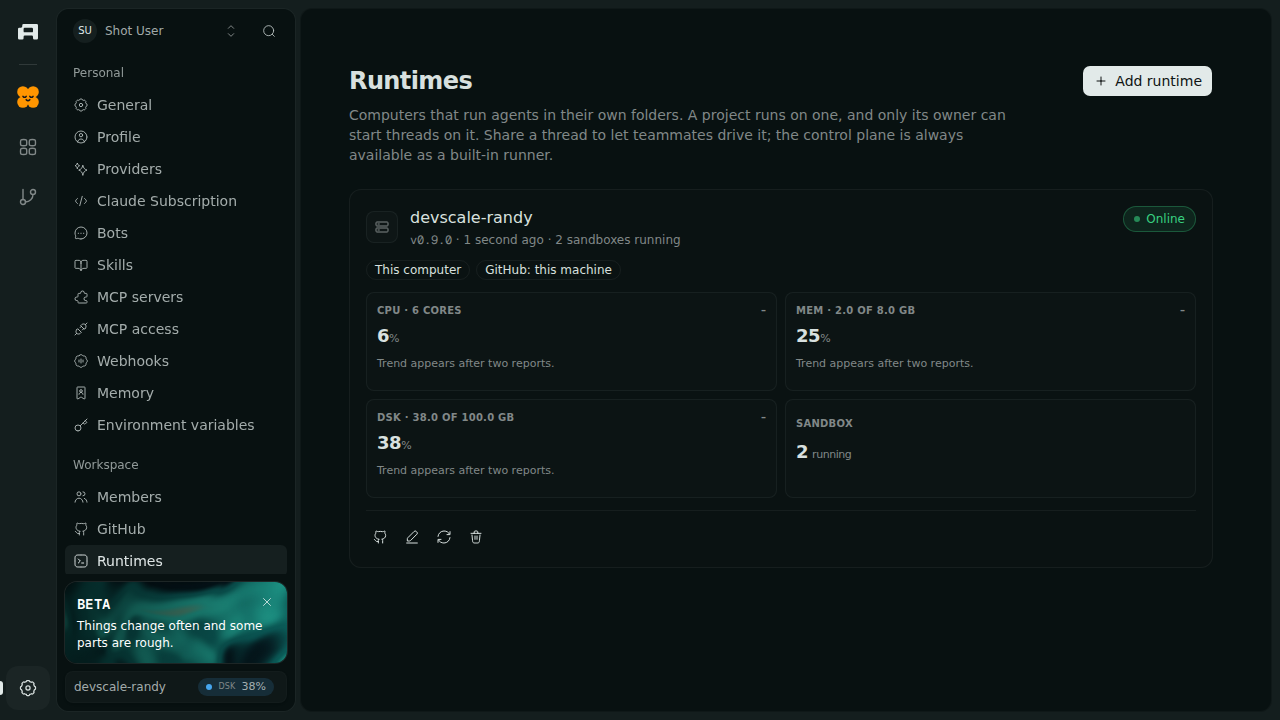
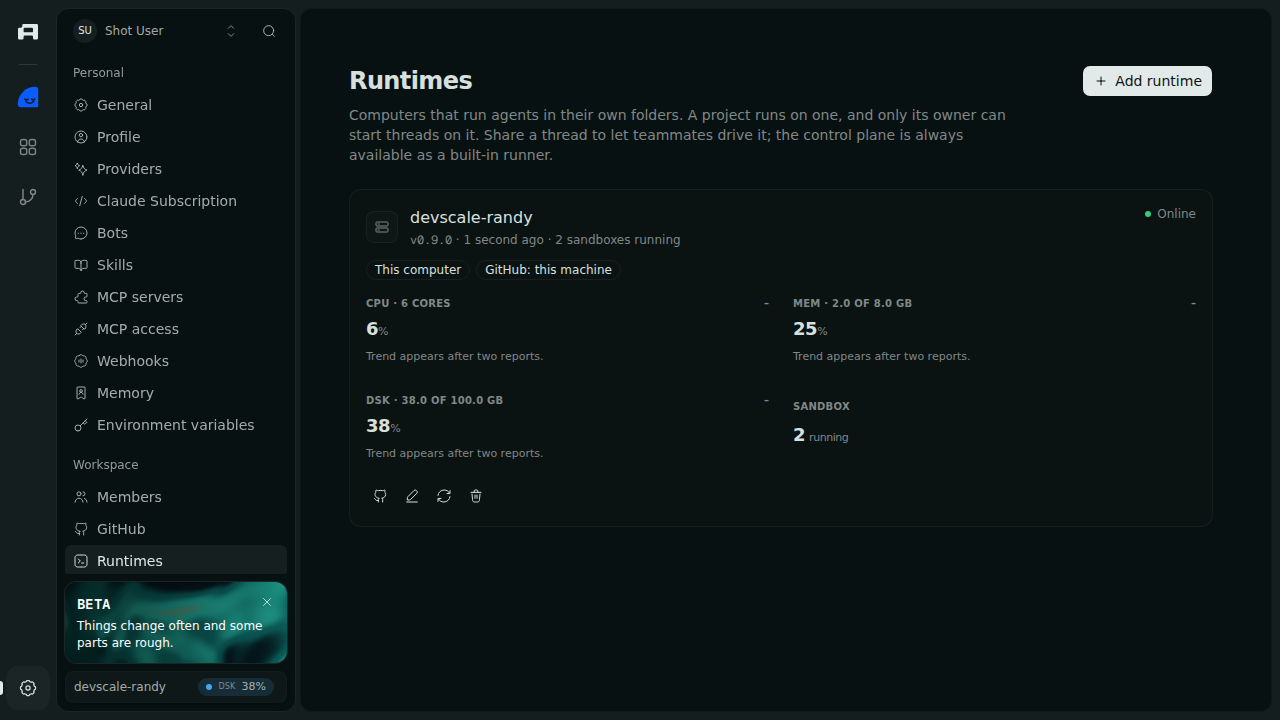
Flatten runtime cards: no inner tiles, no footer line, plain status

diff --git a/apps/platform/src/modules/runtimes/components/runtimes-list.tsx b/apps/platform/src/modules/runtimes/components/runtimes-list.tsx
@@ -64,7 +64,7 @@ function LoadTile({
   const empty = history.length === 0;
 
   return (
-    <div className="rounded-lg border bg-card/40 p-2.5">
+    <div>
       <div className="flex items-center justify-between gap-2">
         <span className="truncate text-[10px] font-semibold tracking-wide text-muted-foreground uppercase">
           {metric.short} · {metric.detail}
@@ -95,14 +95,7 @@ function LoadTile({
 
 function Status({ runtime }: { runtime: Runtime }) {
   return (
-    <span
-      className={cn(
-        "inline-flex shrink-0 items-center gap-1.5 rounded-full border px-2.5 py-1 text-xs font-medium",
-        runtime.online
-          ? "border-success/30 bg-success/10 text-success"
-          : "border-muted-foreground/20 bg-muted/40 text-muted-foreground",
-      )}
-    >
+    <span className="inline-flex shrink-0 items-center gap-1.5 text-xs font-medium text-muted-foreground">
       <span
         role="img"
         aria-label={runtime.online ? "Online" : "Offline"}
@@ -208,26 +201,12 @@ function RuntimeCard({
       </div>
 
       {metrics.length > 0 ? (
-        <div className="mt-3 grid grid-cols-2 gap-2">
-          {metrics.map((metric) => (
-            <LoadTile
-              key={metric.key}
-              runtime={runtime}
-              metric={metric}
-              history={trend.history[metric.key]}
-              previous={trend.previous[metric.key]}
-            />
-          ))}
-          <div className="rounded-lg border bg-card/40 p-2.5">
-            <span className="text-[10px] font-semibold tracking-wide text-muted-foreground uppercase">
-              Sandbox
-            </span>
-            <div className="mt-1 text-lg font-semibold tracking-tight tabular-nums">
-              {stats?.sandboxes ?? "–"}
-              <span className="ml-1 text-[11px] font-normal text-muted-foreground">running</span>
-            </div>
-          </div>
-        </div>
+        <LoadSection
+          runtime={runtime}
+          metrics={metrics}
+          trend={trend}
+          sandboxes={stats?.sandboxes ?? null}
+        />
       ) : (
         <p className="mt-3 text-xs text-muted-foreground">
           {runtime.online
@@ -236,7 +215,7 @@ function RuntimeCard({
         </p>
       )}
 
-      <div className="mt-3 flex flex-wrap items-center gap-1 border-t pt-3">
+      <div className="mt-3 flex flex-wrap items-center gap-1">
         <UpdateRuntimeDialog runtime={runtime} />
         {canRename && <GithubRuntimeDialog runtime={runtime} />}
         {canRename && <RenameRuntimeDialog runtime={runtime} />}
@@ -255,5 +234,45 @@ function RuntimeCard({
         )}
       </div>
     </li>
+  );
+}
+
+type TrendState = {
+  history: Record<MachineMetric["key"], number[]>;
+  previous: Record<MachineMetric["key"], number | null>;
+};
+
+function LoadSection({
+  runtime,
+  metrics,
+  trend,
+  sandboxes,
+}: {
+  runtime: Runtime;
+  metrics: MachineMetric[];
+  trend: TrendState;
+  sandboxes: number | null;
+}) {
+  return (
+    <div className="mt-4 grid grid-cols-2 gap-x-6 gap-y-5">
+      {metrics.map((metric) => (
+        <LoadTile
+          key={metric.key}
+          runtime={runtime}
+          metric={metric}
+          history={trend.history[metric.key]}
+          previous={trend.previous[metric.key]}
+        />
+      ))}
+      <div>
+        <span className="text-[10px] font-semibold tracking-wide text-muted-foreground uppercase">
+          Sandbox
+        </span>
+        <div className="mt-1 text-lg font-semibold tracking-tight tabular-nums">
+          {sandboxes ?? "–"}
+          <span className="ml-1 text-[11px] font-normal text-muted-foreground">running</span>
+        </div>
+      </div>
+    </div>
   );
 }
